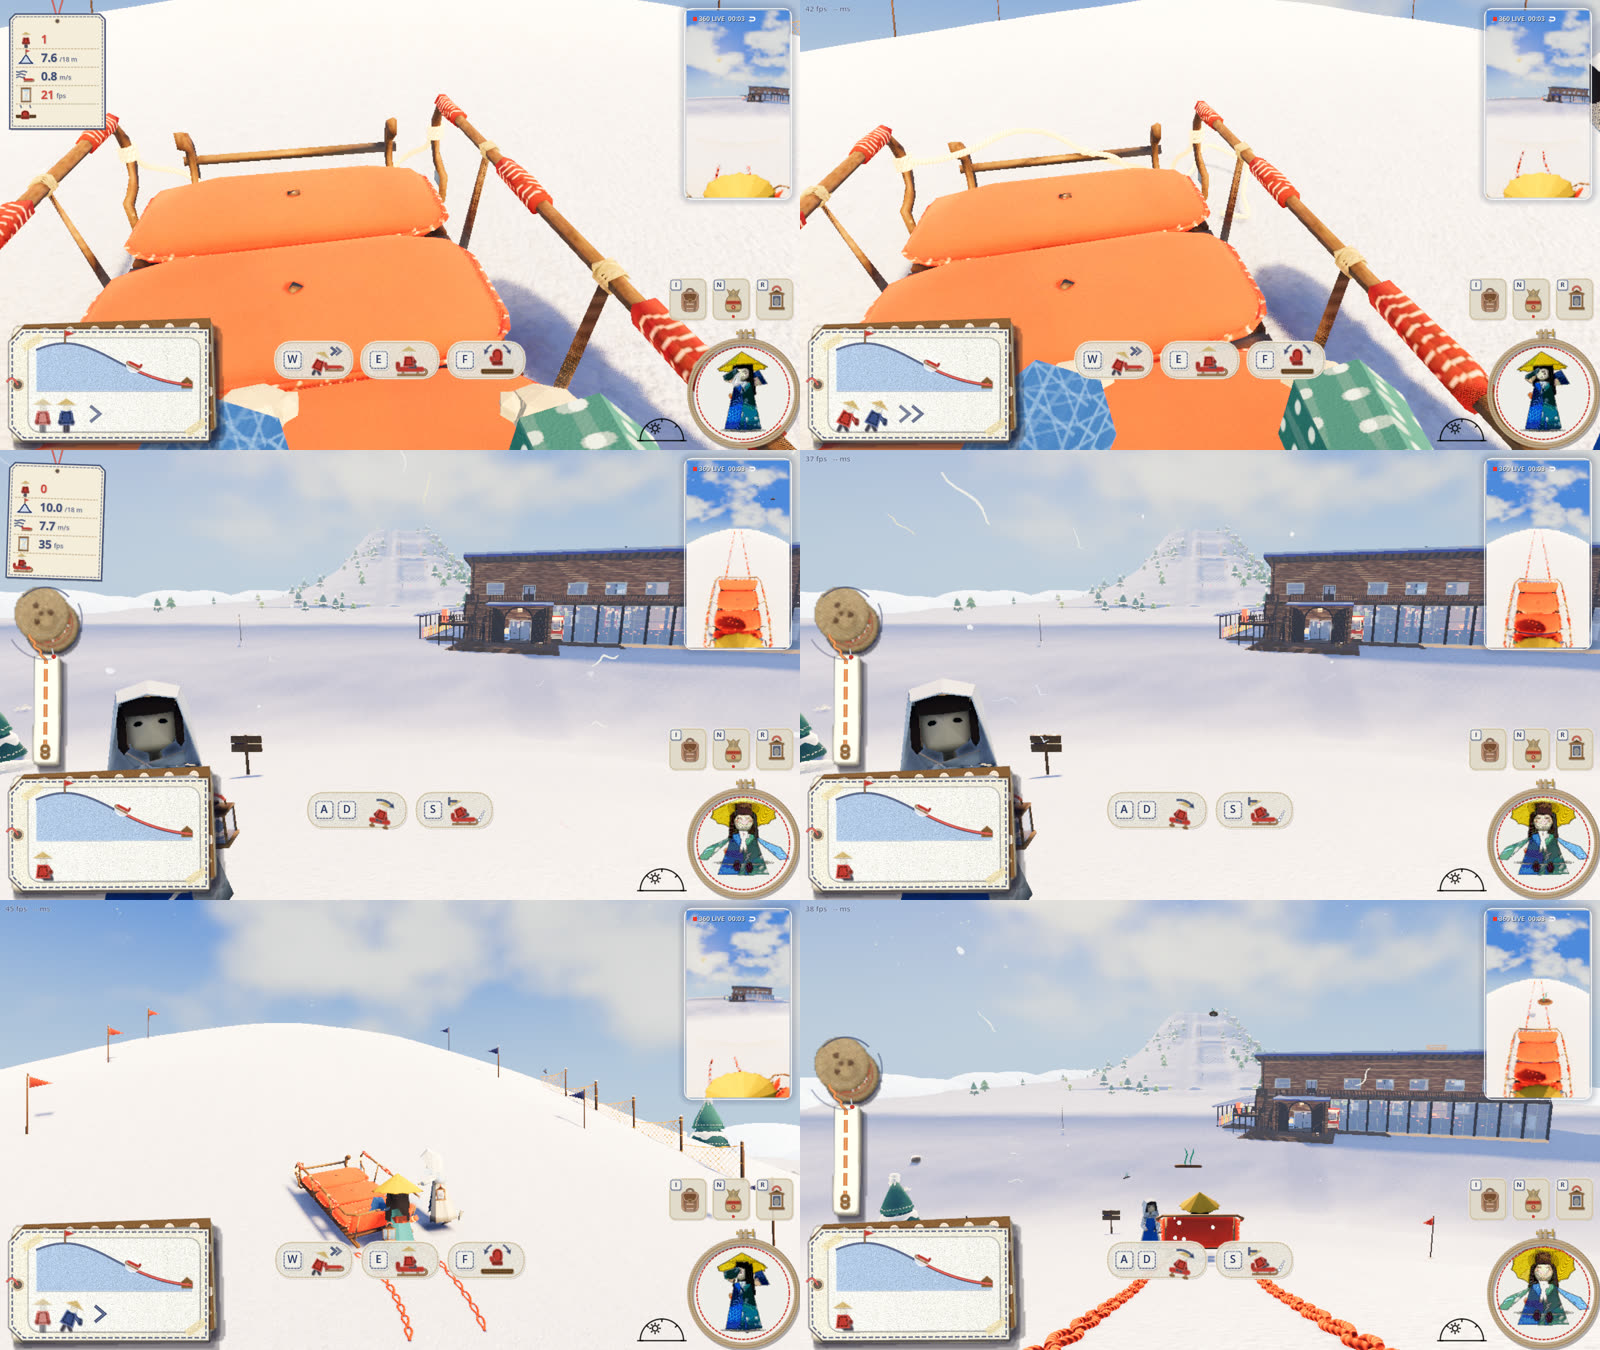
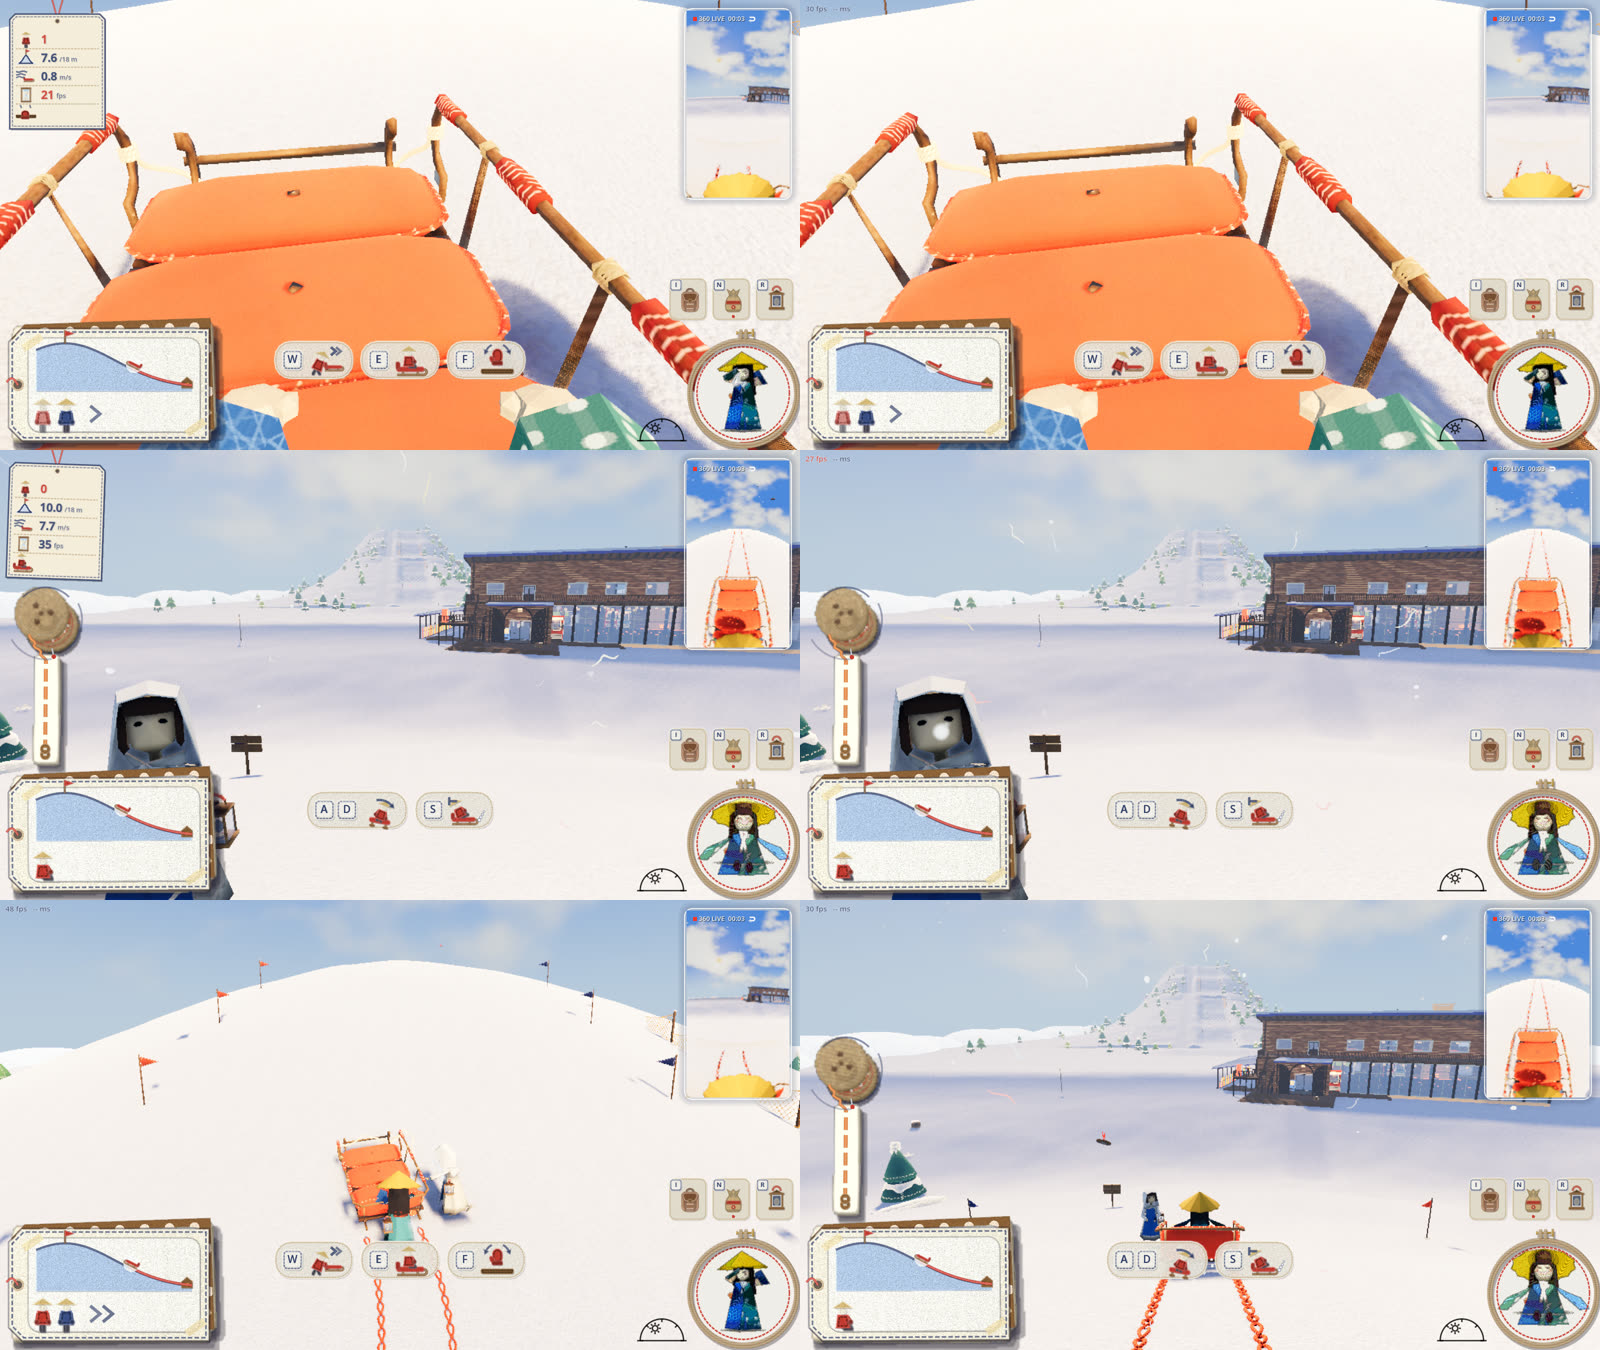
札の人の形の変更を取り消す（札の作り直しは別の作業でまとめて行う）

diff --git a/design/hud.md b/design/hud.md
@@ -114,7 +114,7 @@
 - 通信は、ENet でつながっている相手のうちいちばん遅い相手との往復の時間（ms）。ひとりで遊んでいるときは「-- ms」
 - 出し入れは前と同じく、設定の「確かめ用の数字（fps・通信）」か `--hud-debug`
 - 札にあったほかの段の行き先:
-  - 押している人数 → 左下の札。押している人は前のめりの「押す」姿、紐で引いている人は「引く」姿、つかんでいるだけの人は立った姿で薄く。誰が押しているかはソリの `_pushed_by` で一人ずつ見る（前は、自分以外は「だれかが押していれば全員濃く」だった）。押している人の数だけの糸の矢印 ＞ はそのまま
+  - 押している人数 → 左下の札（押している人の数だけの糸の矢印 ＞）。札の作り直し（ソリごとの柄・触れている人・乗っている人・持ち主）は別の作業でまとめて行う
   - 速さ → 滑るときの糸巻き（`speedo.gd`）。数字は出さない
   - ソリの高さ → 左下の札の丘の断面とソリの印
   - いまの状態（歩く・つかむ・乗る・紐）と覚えた案内の数 → 出さない（画面の下の手引きでわかる）
